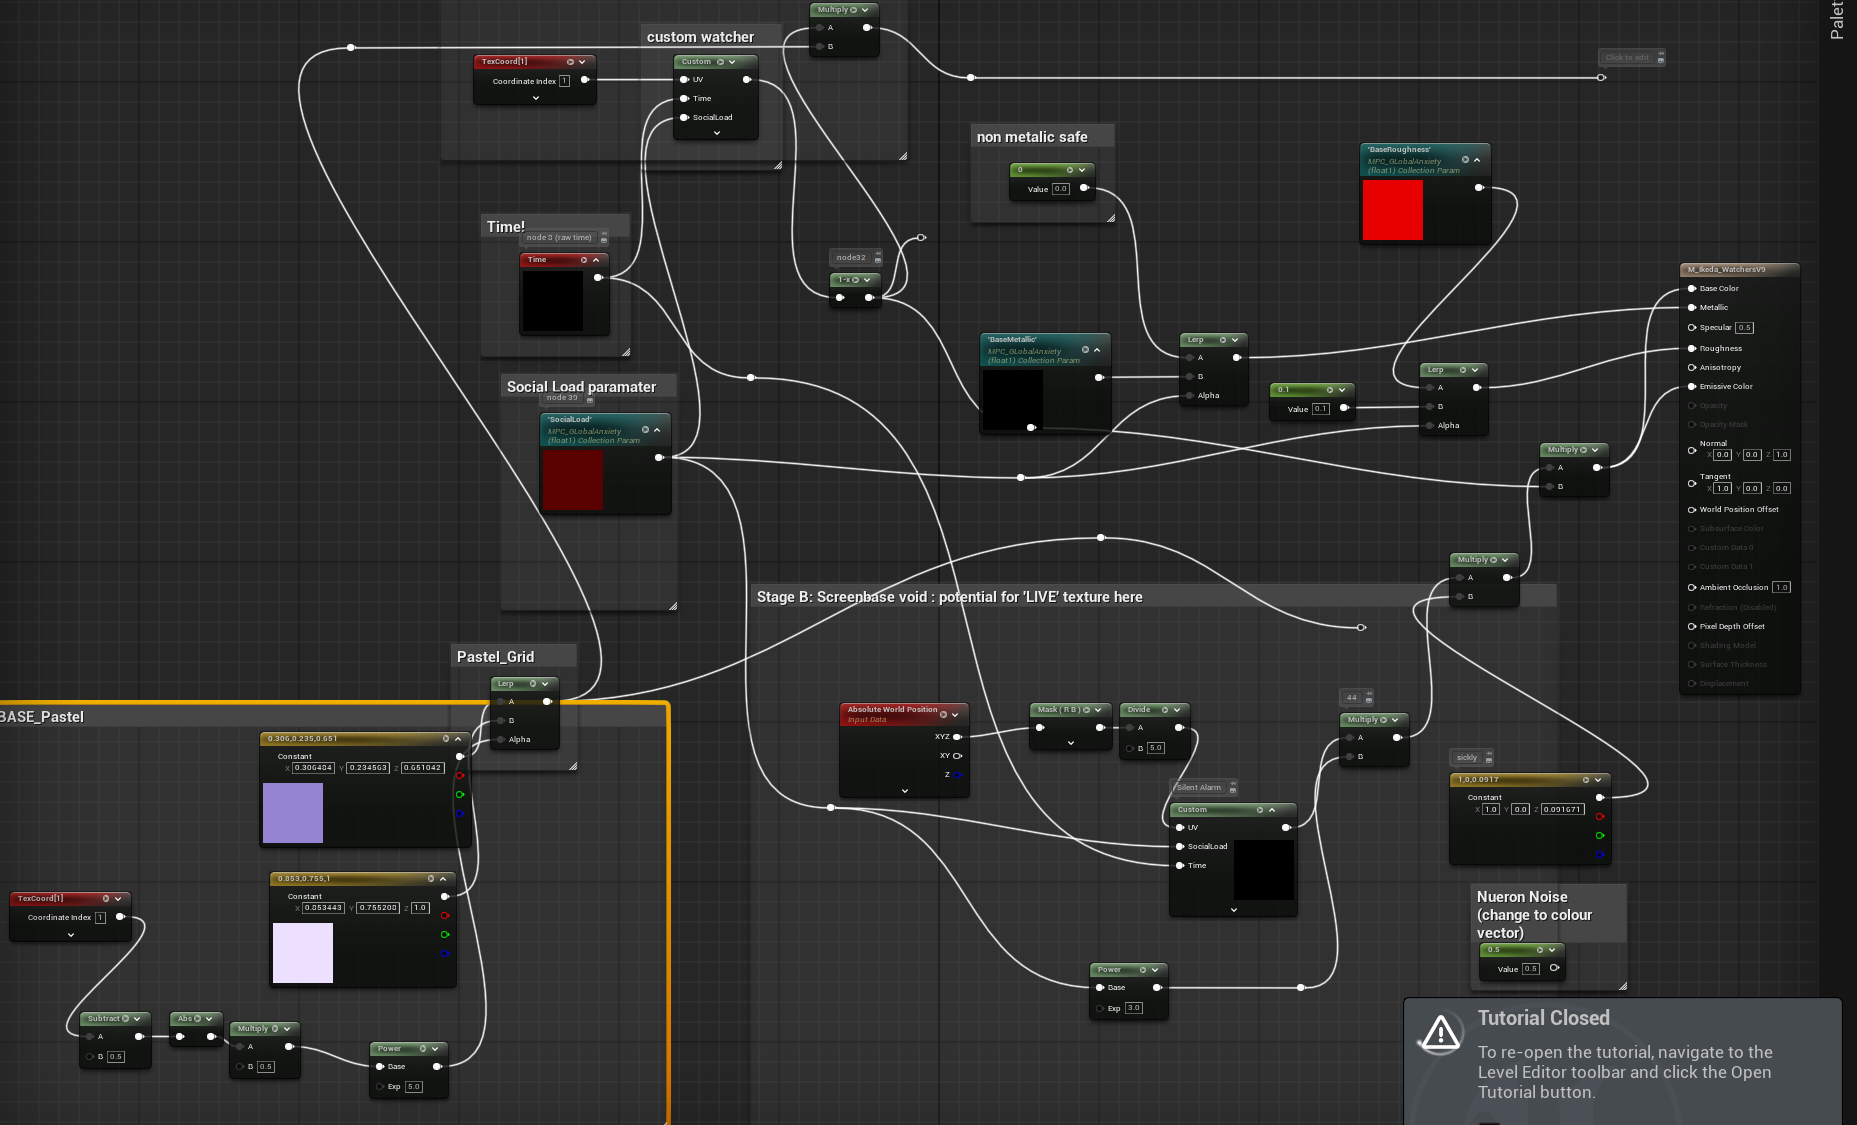
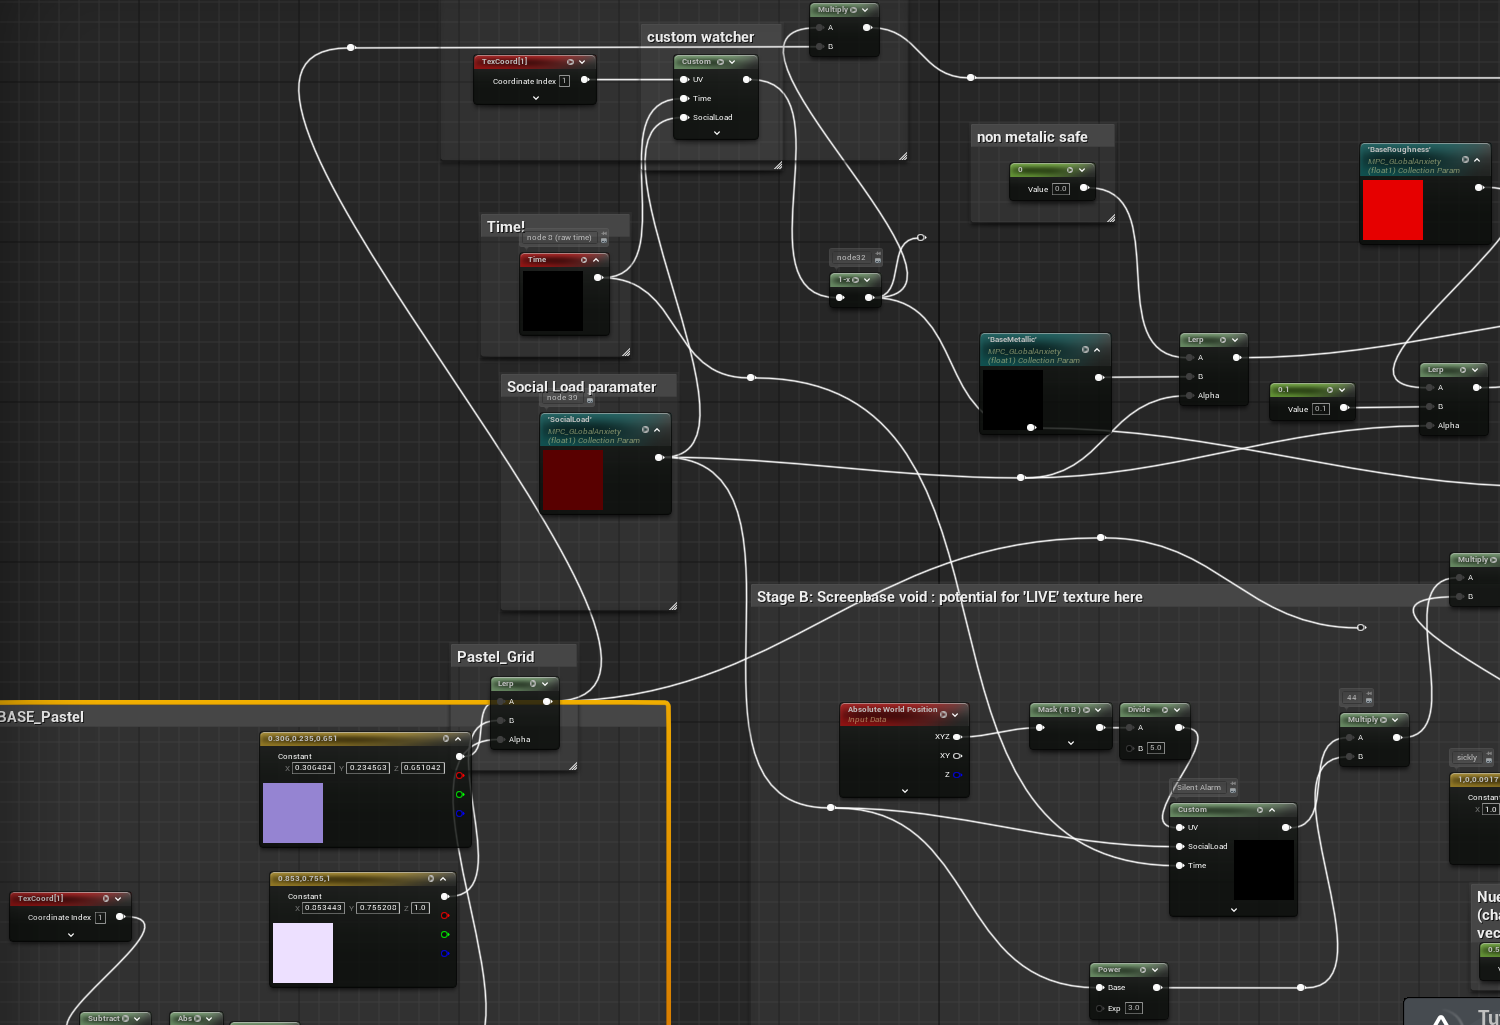
Button and styling for a back to top button.

diff --git a/index.html b/index.html
@@ -12,6 +12,8 @@
     <div id="journal-feed" class="journal-feed"></div>
   </main>
 
+  <button id="back-to-top" class="back-to-top" aria-label="Back to top">↑ Back to Top</button>
+
   <!-- Marked and DOMPurify (CDN quick start) -->
   <script src="https://cdn.jsdelivr.net/npm/marked/lib/marked.umd.js"></script>
   <script src="https://cdn.jsdelivr.net/npm/dompurify/dist/purify.min.js"></script>
@@ -41,6 +43,24 @@
         console.error('Failed to load notes:', err);
         document.getElementById('journal-feed').textContent = 'Failed to load notes.';
       });
+
+    // Back to top button functionality
+    const backToTopBtn = document.getElementById('back-to-top');
+    
+    window.addEventListener('scroll', () => {
+      if (window.scrollY > 300) {
+        backToTopBtn.style.display = 'block';
+      } else {
+        backToTopBtn.style.display = 'none';
+      }
+    });
+    
+    backToTopBtn.addEventListener('click', () => {
+      window.scrollTo({
+        top: 0,
+        behavior: 'smooth'
+      });
+    });
   </script>
 </body>
 </html>

diff --git a/css/style.css b/css/style.css
@@ -1,5 +1,25 @@
 /* CSS */
 
+.back-to-top {
+  display: none;
+  position: fixed;
+  bottom: 20px;
+  right: 20px;
+  padding: 10px 15px;
+  background-color: #333;
+  color: #fff;
+  border: none;
+  border-radius: 4px;
+  cursor: pointer;
+  font-size: 14px;
+  z-index: 1000;
+  transition: background-color 0.3s ease;
+}
+
+.back-to-top:hover {
+  background-color: #555;
+}
+
 .img-box {
   width: 320px;
   height: 200px;

diff --git a/server.js b/server.js
@@ -28,6 +28,8 @@ app.get('/api/notes', (req, res) => {
   });
 });
 
+//To start server run - node server.js in a terminal
+
 app.listen(PORT, () => {
   console.log(`Server is running on http://localhost:${PORT}`);
 });
